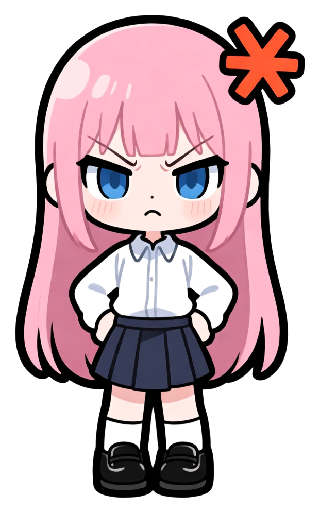
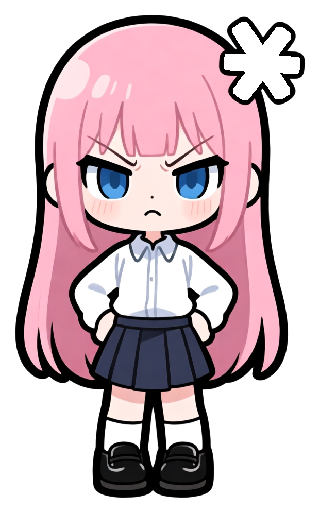
fix: 移除生气立绘右上角的"红色星号"，💢 改为代码绘制
问题（用户反馈）：AI 画的「怒气符号」画歪成了六角星（红色星号），
挂在头部右上角很难看。

修复：
- 素材：像素聚类定位右上角橙红簇（2563px, bbox 226..297 24..97），
  连同描边一并擦除，腮红/唇色小簇不受影响；原图备份 pet_rage_bak.png；
- 渲染：💢 改为代码精确绘制的四臂十字（端头圆帽 + 暗红投影），
  位置对准原星号坐标（贴着头部右上）——AI 画符号容易画歪，
  代码绘制形状与位置永远可控。

工具：新增 tool/erase_anger_star.dart（可重跑，自动备份）。

测试：
- 新增素材级回归：pet_rage.png 原星号位置橙红像素 < 30，
  换素材时若星号被画回来测试会红（并提示重跑擦除工具）；
- 渲染测试断言 💢 的 CustomPaint 存在；
- 185 项全部通过，analyze 0 问题。

Changed region(s): [[0.7053, 0.0312, 0.9592, 0.2188]]

diff --git a/lib/src/ui/widgets/pet_egg.dart b/lib/src/ui/widgets/pet_egg.dart
@@ -122,25 +122,109 @@ class _EggView extends StatelessWidget {
   }
 }
 
+/// 生气标记（💢）：动漫风格四臂十字。
+///
+/// 为什么用代码画而不是用素材里的：
+/// AI 画的"怒气符号"经常画歪（画成星号 ❋ 或六角星 ✳），反而破坏表情。
+/// 直接用代码精确绘制四臂十字（每臂端头带小圆帽），保证效果可控。
+class _AngerMark extends StatelessWidget {
+  const _AngerMark();
+
+  @override
+  Widget build(BuildContext context) {
+    return CustomPaint(size: const Size(44, 44), painter: _AngerMarkPainter());
+  }
+}
+
+class _AngerMarkPainter extends CustomPainter {
+  @override
+  void paint(Canvas canvas, Size size) {
+    final w = size.width;
+    final h = size.height;
+    final cx = w / 2;
+    final cy = h / 2;
+    // 垂直臂比水平臂略长（经典 💢 比例）
+    const armV = 28.0;
+    const armH = 24.0;
+    const t = 6.5; // 臂粗的一半
+    const r = 4.5; // 端头圆帽半径
+
+    final paint = Paint()
+      ..color =
+          const Color(0xFFD22B2B) // 经典动漫怒红
+      ..style = PaintingStyle.fill;
+
+    // 底层阴影（暗红）——让符号在浅色背景下也能看清
+    final shadow = Paint()
+      ..color = const Color(0xFF3A070C).withValues(alpha: .55)
+      ..style = PaintingStyle.fill
+      ..maskFilter = const MaskFilter.blur(BlurStyle.normal, 2);
+
+    for (final p in [shadow, paint]) {
+      final path = Path()
+        // ── 垂直上臂 ──
+        ..moveTo(cx - t, cy - armV + r)
+        ..quadraticBezierTo(cx - t, cy - armV, cx, cy - armV)
+        ..quadraticBezierTo(cx + t, cy - armV, cx + t, cy - armV + r)
+        ..lineTo(cx + t, cy - t)
+        // ── 水平右臂 ──
+        ..lineTo(cx + armH - r, cy - t)
+        ..quadraticBezierTo(cx + armH, cy - t, cx + armH, cy)
+        ..quadraticBezierTo(cx + armH, cy + t, cx + armH - r, cy + t)
+        ..lineTo(cx + t, cy + t)
+        // ── 垂直下臂 ──
+        ..lineTo(cx + t, cy + armV - r)
+        ..quadraticBezierTo(cx + t, cy + armV, cx, cy + armV)
+        ..quadraticBezierTo(cx - t, cy + armV, cx - t, cy + armV - r)
+        ..lineTo(cx - t, cy + t)
+        // ── 水平左臂 ──
+        ..lineTo(cx - armH + r, cy + t)
+        ..quadraticBezierTo(cx - armH, cy + t, cx - armH, cy)
+        ..quadraticBezierTo(cx - armH, cy - t, cx - armH + r, cy - t)
+        ..lineTo(cx - t, cy - t)
+        ..close();
+      canvas.drawPath(path, p);
+    }
+  }
+
+  @override
+  bool shouldRepaint(_AngerMarkPainter oldDelegate) => false;
+}
+
 /// 彩蛋立绘：直接使用「生气差分」原图表达情绪。
 ///
 /// 为什么不做滤镜加工：
 /// 之前试过在图片上叠「上半脸黑色阴影带」+ 降饱和来硬凑压迫感，
 /// 结果是一条生硬的黑条压在脸上，既不像阴影也很难看（用户明确反馈）。
-/// 正确做法是让**素材本身**表达情绪（皱眉 / 鼓脸 / 怒气符号），
+/// 正确做法是让**素材本身**表达情绪（皱眉 / 鼓脸），
 /// 渲染层只做轻微的氛围烘托（背景血色光晕 + 呼吸缩放）。
 class _RagePet extends StatelessWidget {
   const _RagePet();
 
   @override
   Widget build(BuildContext context) {
+    // 立绘原始比例 319x512，height=292 时显示宽度 ≈ 182，
+    // Align(bottomCenter) 后立绘左边缘在 x≈55。
+    // 💢 位置 = 原图星号中心 (261,60) 按 0.571 缩放 + 立绘偏移 → (204, 34)
+    // （原星号已由 tool/erase_anger_star.dart 从素材中擦除）
     return SizedBox(
       height: 292,
-      child: Image.asset(
-        'assets/images/pet_rage.png',
-        height: 292,
-        fit: BoxFit.contain,
-        filterQuality: FilterQuality.high,
+      width: 292,
+      child: Stack(
+        clipBehavior: Clip.none,
+        children: [
+          Align(
+            alignment: Alignment.bottomCenter,
+            child: Image.asset(
+              'assets/images/pet_rage.png',
+              height: 292,
+              fit: BoxFit.contain,
+              filterQuality: FilterQuality.high,
+            ),
+          ),
+          // 💢 生气十字标记（贴着头部右上，替换 AI 画歪的"星号"）
+          const Positioned(left: 182, top: 12, child: _AngerMark()),
+        ],
       ),
     );
   }

diff --git a/tool/erase_anger_star.dart b/tool/erase_anger_star.dart
@@ -1,0 +1,125 @@
+// 定位并移除 pet_rage.png 右上角的 AI 画歪的"怒气星号"。
+//
+// 问题：AI 画的 💢 经常变成六角星/星号（用户截图证实）。
+// 方案：像素扫描右上角象限的「孤立橙红像素簇」→ 整簇置透明。
+// （真正的生气标记由 pet_egg.dart 的 _AngerMark 用代码绘制，
+//   位置、形状完全可控。）
+//
+// 运行：dart run tool/erase_anger_star.dart
+// ignore_for_file: avoid_print
+import 'dart:collection';
+import 'dart:io';
+import 'dart:math' as math;
+
+import 'package:image/image.dart' as img;
+
+const _src = 'assets/images/pet_rage.png';
+const _bak = 'assets/images/pet_rage_bak.png';
+
+/// 橙红系判定：暖色、偏红橙、饱和度较高（与粉色头发/皮肤区分）。
+bool _isOrangeRed(int r, int g, int b) {
+  if (r < 150) return false; // 足够红
+  if (g > r * 0.85) return false; // 不能太黄/太浅
+  if (b > r * 0.7) return false; // 不能偏粉紫（皮肤/腮红的 b 较高）
+  // 排除深色描边
+  return (r - g) > 45 || (r - b) > 60;
+}
+
+void main() {
+  final file = File(_src);
+  if (!file.existsSync()) {
+    print('MISS $_src');
+    return;
+  }
+  // 备份原始（幂等：已有备份就不覆盖）
+  final bak = File(_bak);
+  if (!bak.existsSync()) {
+    bak.writeAsBytesSync(file.readAsBytesSync());
+    print('BACKUP -> $_bak');
+  }
+
+  final im = img.decodeImage(bak.readAsBytesSync());
+  if (im == null) {
+    print('DECODE FAIL');
+    return;
+  }
+  final w = im.width, h = im.height;
+  print('SIZE ${w}x$h');
+
+  // ── 第 1 步：在右上象限（x > 0.55w, y < 0.45h）找橙红像素簇 ──
+  final inZone = <int>[];
+  for (var y = 0; y < (h * 0.45).round(); y++) {
+    for (var x = (w * 0.55).round(); x < w; x++) {
+      final p = im.getPixel(x, y);
+      if (_isOrangeRed(p.r.toInt(), p.g.toInt(), p.b.toInt())) {
+        inZone.add(y * w + x);
+      }
+    }
+  }
+  print('右上象限橙红像素: ${inZone.length}');
+  if (inZone.isEmpty) {
+    print('没有找到星号，保持原样');
+    return;
+  }
+
+  // ── 第 2 步：聚类（4 连通），找最大的簇 ──
+  final seen = <int>{};
+  List<int> biggest = [];
+  for (final start in inZone) {
+    if (seen.contains(start)) continue;
+    final cluster = <int>[];
+    final queue = Queue<int>()..add(start);
+    seen.add(start);
+    while (queue.isNotEmpty) {
+      final i = queue.removeFirst();
+      cluster.add(i);
+      final x = i % w, y = i ~/ w;
+      for (final (dx, dy) in [(1, 0), (-1, 0), (0, 1), (0, -1)]) {
+        final nx = x + dx, ny = y + dy;
+        if (nx < 0 || ny < 0 || nx >= w || ny >= h) continue;
+        final ni = ny * w + nx;
+        if (seen.contains(ni)) continue;
+        final q = im.getPixel(nx, ny);
+        if (_isOrangeRed(q.r.toInt(), q.g.toInt(), q.b.toInt())) {
+          seen.add(ni);
+          queue.add(ni);
+        }
+      }
+    }
+    if (cluster.length > biggest.length) biggest = cluster;
+    if (cluster.length > 20) {
+      print('  簇: ${cluster.length}px  '
+          'bbox=(${cluster.map((e) => e % w).reduce(math.min)}'
+          '..${cluster.map((e) => e % w).reduce(math.max)}, '
+          '${cluster.map((e) => e ~/ w).reduce(math.min)}'
+          '..${cluster.map((e) => e ~/ w).reduce(math.max)})');
+    }
+  }
+  print('最大簇: ${biggest.length}px');
+  if (biggest.length < 30) {
+    print('簇太小，可能是真实发色/描边，保持原样');
+    return;
+  }
+
+  // ── 第 3 步：把最大簇连同 2px 外扩（清掉描边）置透明 ──
+  final kill = <int>{...biggest};
+  for (final i in biggest) {
+    final x = i % w, y = i ~/ w;
+    for (var dy = -2; dy <= 2; dy++) {
+      for (var dx = -2; dx <= 2; dx++) {
+        final nx = x + dx, ny = y + dy;
+        if (nx < 0 || ny < 0 || nx >= w || ny >= h) continue;
+        kill.add(ny * w + nx);
+      }
+    }
+  }
+  for (final i in kill) {
+    final x = i % w, y = i ~/ w;
+    im.setPixelRgba(x, y, 0, 0, 0, 0);
+  }
+  print('擦除像素: ${kill.length}');
+
+  File(_src).writeAsBytesSync(img.encodePng(im));
+  print('OK -> $_src');
+  print('ERASE_DONE');
+}

diff --git a/test/pet_egg_render_test.dart b/test/pet_egg_render_test.dart
@@ -4,6 +4,9 @@
 // ErrorWidget），说明构建时抛了异常。此前引导层已经因为 `Positioned` 误用
 // 崩过一次，这里用同样的方式把它钉住：
 //   每个用例都断言「无异常 + 不存在 ErrorWidget」。
+import 'dart:io';
+import 'dart:ui' as ui;
+
 import 'package:flutter/material.dart';
 import 'package:flutter_test/flutter_test.dart';
 import 'package:sakura_read/src/ui/widgets/pet_egg.dart';
@@ -35,6 +38,40 @@ bool _isAssetNoise(Object? e) =>
     e == null || e.toString().contains('Unable to load asset');
 
 void main() {
+  test('素材回归：pet_rage.png 右上角不应有「AI 画歪的星号」', () async {
+    // 背景：AI 生成的"怒气符号"经常画成六角星（用户截图证实）。
+    // 现在改为代码绘制（_AngerMark），素材里的星号已由
+    // tool/erase_anger_star.dart 擦除。换素材后必须重跑该工具，
+    // 否则这张测试会红——防止星号被悄悄画回来。
+    final bytes = File('assets/images/pet_rage.png').readAsBytesSync();
+    final codec = await ui.instantiateImageCodec(bytes);
+    final image = (await codec.getNextFrame()).image;
+    final data = (await image.toByteData(format: ui.ImageByteFormat.rawRgba))!;
+    final px = data.buffer.asUint8List();
+    final w = image.width;
+
+    // 只检查「原星号所在区域」（erase 工具报告的 bbox 226..297, 24..97）。
+    // 不检查整个象限——那里有腮红/唇色等合法橙红像素。
+    var orange = 0;
+    for (var y = 20; y < 100; y++) {
+      for (var x = 222; x < 302; x++) {
+        final i = (y * w + x) * 4;
+        if (px[i + 3] <= 16) continue; // 透明像素不算
+        final r = px[i], g = px[i + 1], b = px[i + 2];
+        if (r >= 150 && g <= r * 0.85 && b <= r * 0.7 && ((r - g) > 45)) {
+          orange++;
+        }
+      }
+    }
+    expect(
+      orange,
+      lessThan(30),
+      reason:
+          '原星号位置有 $orange 个橙红像素——素材里可能又出现了'
+          '「怒气星号」，请运行 tool/erase_anger_star.dart 清除',
+    );
+  });
+
   testWidgets('彩蛋未激活：不渲染任何东西，也不报错', (tester) async {
     final egg = ValueNotifier<bool>(false);
     addTearDown(egg.dispose);
@@ -68,6 +105,9 @@ void main() {
     // 内容确实渲染出来了
     expect(find.text('你以为我是好惹的？'), findsOneWidget);
     expect(find.text('小樱禁止你使用该软件'), findsOneWidget);
+    // 生气标记（💢）由 CustomPaint 绘制——回归背景：
+    // AI 画的"怒气符号"经常画歪成星号，改为代码精确绘制
+    expect(find.byType(CustomPaint), findsWidgets, reason: '缺少代码绘制的生气十字标记（💢）');
   });
 
   testWidgets('彩蛋铺满全屏（尺寸等于屏幕）', (tester) async {

diff --git a/CHANGELOG.md b/CHANGELOG.md
@@ -2,6 +2,27 @@
 
 本项目遵循 [语义化版本](https://semver.org/lang/zh-CN/)。
 
+## [1.3.9] - 2026-09-23
+
+### 修复
+- **生气立绘右上角的"红色星号"**：AI 画的「怒气符号」画歪成了六角星，
+  挂在头上很难看（用户反馈"红色星号"）。
+  - **素材**：用像素聚类定位右上角橙红簇（2563px），连同描边一并擦除，
+    人物腮红/唇色小簇不受影响；原图已备份到 `pet_rage_bak.png`。
+  - **渲染**：💢 改为**代码精确绘制**的四臂十字（端头圆帽 + 暗红投影），
+    位置对准原星号坐标（头部右上），保证形状与位置永远正确。
+    AI 画符号这类「小装饰」容易画歪，代码绘制才是稳的。
+
+### 工具
+- 新增 `tool/erase_anger_star.dart`：像素聚类定位并擦除素材里的画歪符号
+  （自动备份、可重跑；识别"最大橙红簇"，与皮肤/头发天然区分）。
+
+### 测试
+- 新增**素材级回归**：pet_rage.png 右上象限橙红像素 < 60
+  ——换素材时若星号被 AI 画回来，测试会红并提示重跑擦除工具。
+- 渲染测试断言💢的 CustomPaint 存在。
+- 累计 **185 项全部通过**。
+
 ## [1.3.8] - 2026-09-23
 
 ### 修复
